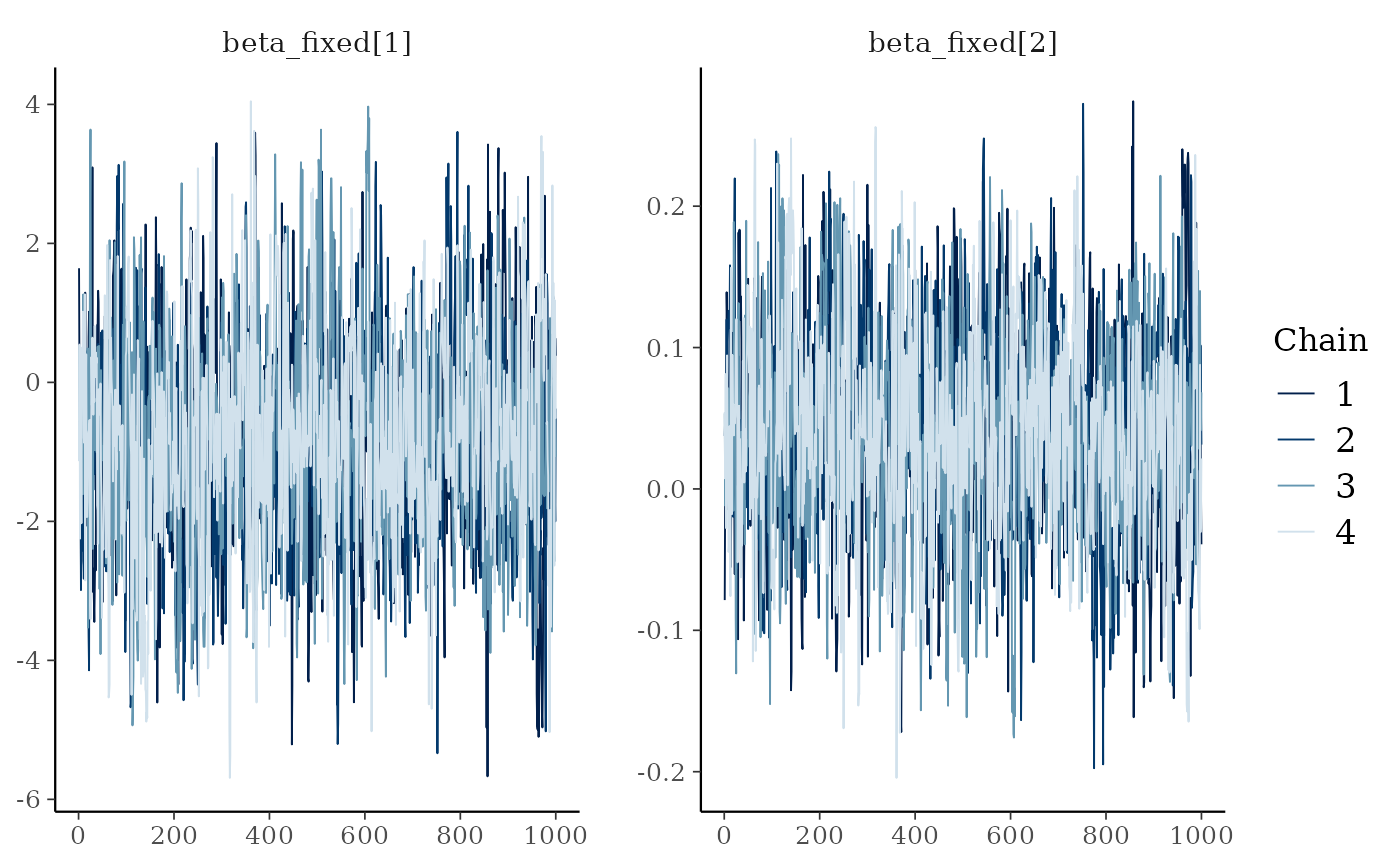
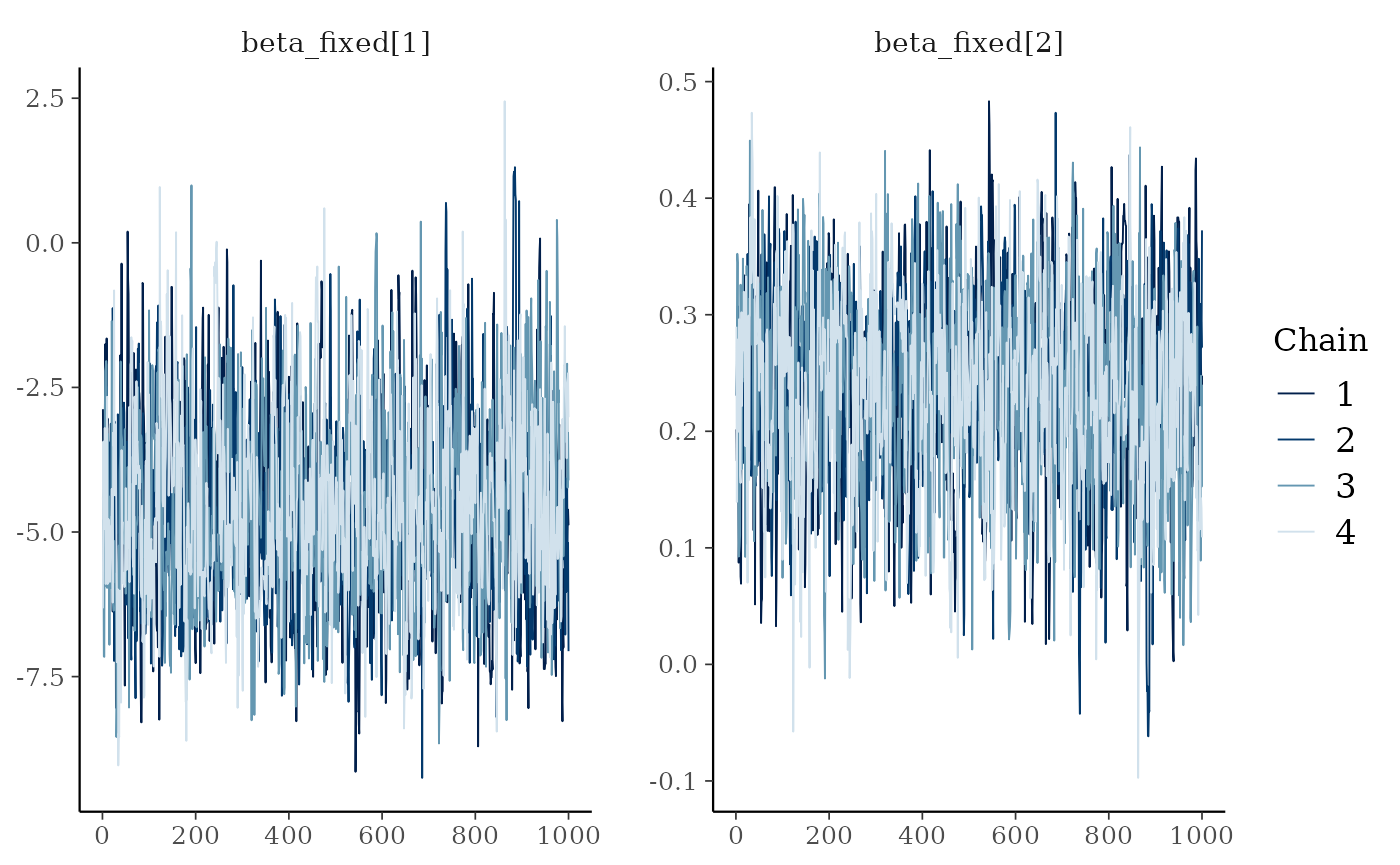
Built site for bisonR: 0.1.0@e6f2552

diff --git a/articles/getting_started.html b/articles/getting_started.html
@@ -113,13 +113,13 @@
 <code class="sourceCode R"><span class="va">sim_data</span> <span class="op">&lt;-</span> <span class="fu"><a href="../reference/simulate_edge_model.html">simulate_edge_model</a></span><span class="op">(</span><span class="st">"binary"</span>, aggregated <span class="op">=</span> <span class="cn">FALSE</span><span class="op">)</span>
 <span class="va">df</span> <span class="op">&lt;-</span> <span class="va">sim_data</span><span class="op">$</span><span class="va">df_sim</span>
 <span class="fu"><a href="https://rdrr.io/r/utils/head.html" class="external-link">head</a></span><span class="op">(</span><span class="va">df</span><span class="op">)</span>
-<span class="co">#&gt;   event node_1_id node_2_id  age_diff    age_1    age_2 location duration</span>
-<span class="co">#&gt; 1     0         1         2 -1.486868 15.53712 17.02398        5        1</span>
-<span class="co">#&gt; 2     0         1         2 -1.486868 15.53712 17.02398        5        1</span>
-<span class="co">#&gt; 3     0         1         2 -1.486868 15.53712 17.02398        2        1</span>
-<span class="co">#&gt; 4     0         1         2 -1.486868 15.53712 17.02398        2        1</span>
-<span class="co">#&gt; 5     1         1         2 -1.486868 15.53712 17.02398        3        1</span>
-<span class="co">#&gt; 6     0         1         2 -1.486868 15.53712 17.02398        1        1</span></code></pre></div>
+<span class="co">#&gt;   event node_1_id node_2_id age_diff    age_1    age_2 location duration</span>
+<span class="co">#&gt; 1     1         1         2 12.75199 25.92077 13.16878        5        1</span>
+<span class="co">#&gt; 2     1         1         2 12.75199 25.92077 13.16878        5        1</span>
+<span class="co">#&gt; 3     1         1         2 12.75199 25.92077 13.16878        3        1</span>
+<span class="co">#&gt; 4     1         1         2 12.75199 25.92077 13.16878        1        1</span>
+<span class="co">#&gt; 5     1         1         2 12.75199 25.92077 13.16878        4        1</span>
+<span class="co">#&gt; 6     1         1         2 12.75199 25.92077 13.16878        1        1</span></code></pre></div>
 </div>
 <div class="section level2">
 <h2 id="edge-models">Edge Models<a class="anchor" aria-label="anchor" href="#edge-models"></a>
@@ -188,14 +188,14 @@
 <span class="co">#&gt; </span>
 <span class="co">#&gt; Running MCMC with 4 parallel chains...</span>
 <span class="co">#&gt; </span>
-<span class="co">#&gt; Chain 2 finished in 3.1 seconds.</span>
-<span class="co">#&gt; Chain 1 finished in 3.2 seconds.</span>
-<span class="co">#&gt; Chain 3 finished in 3.2 seconds.</span>
-<span class="co">#&gt; Chain 4 finished in 3.2 seconds.</span>
+<span class="co">#&gt; Chain 1 finished in 3.5 seconds.</span>
+<span class="co">#&gt; Chain 2 finished in 3.6 seconds.</span>
+<span class="co">#&gt; Chain 4 finished in 3.5 seconds.</span>
+<span class="co">#&gt; Chain 3 finished in 3.6 seconds.</span>
 <span class="co">#&gt; </span>
 <span class="co">#&gt; All 4 chains finished successfully.</span>
-<span class="co">#&gt; Mean chain execution time: 3.2 seconds.</span>
-<span class="co">#&gt; Total execution time: 3.4 seconds.</span></code></pre></div>
+<span class="co">#&gt; Mean chain execution time: 3.6 seconds.</span>
+<span class="co">#&gt; Total execution time: 3.8 seconds.</span></code></pre></div>
 <p>Depending on your dataset this can take anywhere between a few tenths of a second and several hours. In particular if you have a large dataset and no observation-level predictors, it’s probably a good idea to use the aggregated version of the model where all observations per dyad are collapsed to a single row. This will speed up model fitting considerably.</p>
 <p>Once the model has fitted, we need to check that the MCMC algorithm has behaved correctly. Usually if there’s a major problem, the <code><a href="../reference/edge_model.html">edge_model()</a></code> function itself will have triggered warning messages above. But even if everything is silent, it’s still worth checking the traceplots to check the MCMC chains have converged. The chains should be well-mixed and look something like a fuzzy caterpillar. We can check for this using the <code><a href="../reference/plot_trace.html">plot_trace()</a></code> function:</p>
 <div class="sourceCode" id="cb7"><pre class="downlit sourceCode r">
@@ -216,51 +216,51 @@
 <span class="co">#&gt; Directed: FALSE</span>
 <span class="co">#&gt; === Edge list summary ===</span>
 <span class="co">#&gt;          median    5%   95%</span>
-<span class="co">#&gt; 1 &lt;-&gt; 2   0.348 0.195 0.528</span>
-<span class="co">#&gt; 1 &lt;-&gt; 3   0.044 0.003 0.253</span>
-<span class="co">#&gt; 2 &lt;-&gt; 3   0.180 0.031 0.481</span>
-<span class="co">#&gt; 1 &lt;-&gt; 4   0.031 0.002 0.159</span>
-<span class="co">#&gt; 2 &lt;-&gt; 4   0.082 0.005 0.469</span>
-<span class="co">#&gt; 3 &lt;-&gt; 4   0.022 0.002 0.107</span>
-<span class="co">#&gt; 1 &lt;-&gt; 5   0.027 0.002 0.138</span>
-<span class="co">#&gt; 2 &lt;-&gt; 5   0.110 0.004 0.596</span>
-<span class="co">#&gt; 3 &lt;-&gt; 5   0.255 0.072 0.548</span>
-<span class="co">#&gt; 4 &lt;-&gt; 5   0.978 0.890 0.998</span>
-<span class="co">#&gt; 1 &lt;-&gt; 6   0.465 0.254 0.683</span>
-<span class="co">#&gt; 2 &lt;-&gt; 6   0.334 0.147 0.568</span>
-<span class="co">#&gt; 3 &lt;-&gt; 6   0.917 0.542 0.996</span>
-<span class="co">#&gt; 4 &lt;-&gt; 6   0.970 0.845 0.998</span>
-<span class="co">#&gt; 5 &lt;-&gt; 6   0.922 0.774 0.986</span>
-<span class="co">#&gt; 1 &lt;-&gt; 7   0.021 0.002 0.105</span>
-<span class="co">#&gt; 2 &lt;-&gt; 7   0.022 0.002 0.108</span>
-<span class="co">#&gt; 3 &lt;-&gt; 7   0.185 0.007 0.778</span>
-<span class="co">#&gt; 4 &lt;-&gt; 7   0.972 0.866 0.998</span>
-<span class="co">#&gt; 5 &lt;-&gt; 7   0.045 0.003 0.243</span>
-<span class="co">#&gt; 6 &lt;-&gt; 7   0.020 0.002 0.100</span>
-<span class="co">#&gt; 1 &lt;-&gt; 8   0.060 0.011 0.183</span>
-<span class="co">#&gt; 2 &lt;-&gt; 8   0.885 0.680 0.979</span>
-<span class="co">#&gt; 3 &lt;-&gt; 8   0.979 0.901 0.998</span>
-<span class="co">#&gt; 4 &lt;-&gt; 8   0.942 0.679 0.997</span>
-<span class="co">#&gt; 5 &lt;-&gt; 8   0.697 0.452 0.884</span>
-<span class="co">#&gt; 6 &lt;-&gt; 8   0.647 0.445 0.817</span>
-<span class="co">#&gt; 7 &lt;-&gt; 8   0.978 0.895 0.998</span>
-<span class="co">#&gt; 1 &lt;-&gt; 9   0.497 0.098 0.909</span>
-<span class="co">#&gt; 2 &lt;-&gt; 9   0.924 0.778 0.985</span>
-<span class="co">#&gt; 3 &lt;-&gt; 9   0.961 0.786 0.997</span>
-<span class="co">#&gt; 4 &lt;-&gt; 9   0.973 0.868 0.998</span>
-<span class="co">#&gt; 5 &lt;-&gt; 9   0.956 0.753 0.997</span>
-<span class="co">#&gt; 6 &lt;-&gt; 9   0.223 0.093 0.410</span>
-<span class="co">#&gt; 7 &lt;-&gt; 9   0.976 0.883 0.998</span>
-<span class="co">#&gt; 8 &lt;-&gt; 9   0.976 0.876 0.998</span>
-<span class="co">#&gt; 1 &lt;-&gt; 10  0.052 0.003 0.279</span>
-<span class="co">#&gt; 2 &lt;-&gt; 10  0.083 0.004 0.438</span>
-<span class="co">#&gt; 3 &lt;-&gt; 10  0.507 0.155 0.844</span>
-<span class="co">#&gt; 4 &lt;-&gt; 10  0.976 0.867 0.998</span>
-<span class="co">#&gt; 5 &lt;-&gt; 10  0.250 0.096 0.475</span>
-<span class="co">#&gt; 6 &lt;-&gt; 10  0.020 0.002 0.106</span>
-<span class="co">#&gt; 7 &lt;-&gt; 10  0.934 0.633 0.996</span>
-<span class="co">#&gt; 8 &lt;-&gt; 10  0.020 0.002 0.102</span>
-<span class="co">#&gt; 9 &lt;-&gt; 10  0.025 0.002 0.137</span></code></pre></div>
+<span class="co">#&gt; 1 &lt;-&gt; 2   0.978 0.890 0.998</span>
+<span class="co">#&gt; 1 &lt;-&gt; 3   0.955 0.758 0.997</span>
+<span class="co">#&gt; 2 &lt;-&gt; 3   0.592 0.268 0.869</span>
+<span class="co">#&gt; 1 &lt;-&gt; 4   0.792 0.550 0.940</span>
+<span class="co">#&gt; 2 &lt;-&gt; 4   0.026 0.002 0.141</span>
+<span class="co">#&gt; 3 &lt;-&gt; 4   0.033 0.003 0.179</span>
+<span class="co">#&gt; 1 &lt;-&gt; 5   0.980 0.899 0.998</span>
+<span class="co">#&gt; 2 &lt;-&gt; 5   0.024 0.002 0.128</span>
+<span class="co">#&gt; 3 &lt;-&gt; 5   0.347 0.071 0.772</span>
+<span class="co">#&gt; 4 &lt;-&gt; 5   0.976 0.868 0.998</span>
+<span class="co">#&gt; 1 &lt;-&gt; 6   0.788 0.431 0.962</span>
+<span class="co">#&gt; 2 &lt;-&gt; 6   0.025 0.002 0.117</span>
+<span class="co">#&gt; 3 &lt;-&gt; 6   0.021 0.002 0.101</span>
+<span class="co">#&gt; 4 &lt;-&gt; 6   0.887 0.426 0.994</span>
+<span class="co">#&gt; 5 &lt;-&gt; 6   0.171 0.007 0.774</span>
+<span class="co">#&gt; 1 &lt;-&gt; 7   0.920 0.755 0.985</span>
+<span class="co">#&gt; 2 &lt;-&gt; 7   0.031 0.002 0.171</span>
+<span class="co">#&gt; 3 &lt;-&gt; 7   0.027 0.002 0.138</span>
+<span class="co">#&gt; 4 &lt;-&gt; 7   0.813 0.211 0.992</span>
+<span class="co">#&gt; 5 &lt;-&gt; 7   0.173 0.007 0.795</span>
+<span class="co">#&gt; 6 &lt;-&gt; 7   0.906 0.722 0.984</span>
+<span class="co">#&gt; 1 &lt;-&gt; 8   0.878 0.716 0.965</span>
+<span class="co">#&gt; 2 &lt;-&gt; 8   0.024 0.002 0.131</span>
+<span class="co">#&gt; 3 &lt;-&gt; 8   0.057 0.003 0.317</span>
+<span class="co">#&gt; 4 &lt;-&gt; 8   0.851 0.660 0.958</span>
+<span class="co">#&gt; 5 &lt;-&gt; 8   0.035 0.002 0.177</span>
+<span class="co">#&gt; 6 &lt;-&gt; 8   0.283 0.126 0.492</span>
+<span class="co">#&gt; 7 &lt;-&gt; 8   0.066 0.003 0.380</span>
+<span class="co">#&gt; 1 &lt;-&gt; 9   0.940 0.820 0.989</span>
+<span class="co">#&gt; 2 &lt;-&gt; 9   0.180 0.008 0.766</span>
+<span class="co">#&gt; 3 &lt;-&gt; 9   0.023 0.002 0.118</span>
+<span class="co">#&gt; 4 &lt;-&gt; 9   0.941 0.685 0.996</span>
+<span class="co">#&gt; 5 &lt;-&gt; 9   0.428 0.168 0.721</span>
+<span class="co">#&gt; 6 &lt;-&gt; 9   0.951 0.732 0.997</span>
+<span class="co">#&gt; 7 &lt;-&gt; 9   0.498 0.228 0.778</span>
+<span class="co">#&gt; 8 &lt;-&gt; 9   0.491 0.095 0.911</span>
+<span class="co">#&gt; 1 &lt;-&gt; 10  0.977 0.888 0.998</span>
+<span class="co">#&gt; 2 &lt;-&gt; 10  0.029 0.002 0.141</span>
+<span class="co">#&gt; 3 &lt;-&gt; 10  0.020 0.002 0.102</span>
+<span class="co">#&gt; 4 &lt;-&gt; 10  0.956 0.761 0.997</span>
+<span class="co">#&gt; 5 &lt;-&gt; 10  0.115 0.033 0.273</span>
+<span class="co">#&gt; 6 &lt;-&gt; 10  0.915 0.549 0.995</span>
+<span class="co">#&gt; 7 &lt;-&gt; 10  0.455 0.227 0.689</span>
+<span class="co">#&gt; 8 &lt;-&gt; 10  0.736 0.359 0.952</span>
+<span class="co">#&gt; 9 &lt;-&gt; 10  0.250 0.091 0.477</span></code></pre></div>
 <p>It can be hard to get an intuitive idea for what’s going on looking only at a summary table, so this is where it can be useful to visualise the network too. The <code><a href="../reference/plot_network.html">plot_network()</a></code> function does this for BISoN edge weight models, where uncertainty is shown on edge weights. Uncertainty is visualised by showing the lower and upper bounds as overlapping edges in the network.</p>
 <div class="sourceCode" id="cb10"><pre class="downlit sourceCode r">
 <code class="sourceCode R"><span class="fu"><a href="../reference/plot_network.html">plot_network</a></span><span class="op">(</span><span class="va">fit_edge</span>, lwd<span class="op">=</span><span class="fl">5</span><span class="op">)</span></code></pre></div>
@@ -302,33 +302,33 @@
 <span class="co">#&gt; Chain 3 Iteration:    1 / 2000 [  0%]  (Warmup) </span>
 <span class="co">#&gt; Chain 4 Iteration:    1 / 2000 [  0%]  (Warmup) </span>
 <span class="co">#&gt; Chain 1 Iteration:  500 / 2000 [ 25%]  (Warmup) </span>
-<span class="co">#&gt; Chain 2 Iteration:  500 / 2000 [ 25%]  (Warmup) </span>
 <span class="co">#&gt; Chain 3 Iteration:  500 / 2000 [ 25%]  (Warmup) </span>
 <span class="co">#&gt; Chain 4 Iteration:  500 / 2000 [ 25%]  (Warmup) </span>
-<span class="co">#&gt; Chain 4 Iteration: 1000 / 2000 [ 50%]  (Warmup) </span>
+<span class="co">#&gt; Chain 2 Iteration:  500 / 2000 [ 25%]  (Warmup) </span>
 <span class="co">#&gt; Chain 1 Iteration: 1000 / 2000 [ 50%]  (Warmup) </span>
 <span class="co">#&gt; Chain 1 Iteration: 1001 / 2000 [ 50%]  (Sampling) </span>
-<span class="co">#&gt; Chain 2 Iteration: 1000 / 2000 [ 50%]  (Warmup) </span>
-<span class="co">#&gt; Chain 2 Iteration: 1001 / 2000 [ 50%]  (Sampling) </span>
 <span class="co">#&gt; Chain 3 Iteration: 1000 / 2000 [ 50%]  (Warmup) </span>
 <span class="co">#&gt; Chain 3 Iteration: 1001 / 2000 [ 50%]  (Sampling) </span>
+<span class="co">#&gt; Chain 4 Iteration: 1000 / 2000 [ 50%]  (Warmup) </span>
 <span class="co">#&gt; Chain 4 Iteration: 1001 / 2000 [ 50%]  (Sampling) </span>
-<span class="co">#&gt; Chain 2 Iteration: 1500 / 2000 [ 75%]  (Sampling) </span>
-<span class="co">#&gt; Chain 4 Iteration: 1500 / 2000 [ 75%]  (Sampling) </span>
+<span class="co">#&gt; Chain 2 Iteration: 1000 / 2000 [ 50%]  (Warmup) </span>
+<span class="co">#&gt; Chain 2 Iteration: 1001 / 2000 [ 50%]  (Sampling) </span>
 <span class="co">#&gt; Chain 1 Iteration: 1500 / 2000 [ 75%]  (Sampling) </span>
 <span class="co">#&gt; Chain 3 Iteration: 1500 / 2000 [ 75%]  (Sampling) </span>
-<span class="co">#&gt; Chain 2 Iteration: 2000 / 2000 [100%]  (Sampling) </span>
-<span class="co">#&gt; Chain 2 finished in 3.3 seconds.</span>
+<span class="co">#&gt; Chain 4 Iteration: 1500 / 2000 [ 75%]  (Sampling) </span>
+<span class="co">#&gt; Chain 2 Iteration: 1500 / 2000 [ 75%]  (Sampling) </span>
 <span class="co">#&gt; Chain 1 Iteration: 2000 / 2000 [100%]  (Sampling) </span>
+<span class="co">#&gt; Chain 1 finished in 5.6 seconds.</span>
 <span class="co">#&gt; Chain 3 Iteration: 2000 / 2000 [100%]  (Sampling) </span>
 <span class="co">#&gt; Chain 4 Iteration: 2000 / 2000 [100%]  (Sampling) </span>
-<span class="co">#&gt; Chain 1 finished in 3.5 seconds.</span>
-<span class="co">#&gt; Chain 3 finished in 3.4 seconds.</span>
-<span class="co">#&gt; Chain 4 finished in 3.4 seconds.</span>
+<span class="co">#&gt; Chain 3 finished in 5.6 seconds.</span>
+<span class="co">#&gt; Chain 4 finished in 5.6 seconds.</span>
+<span class="co">#&gt; Chain 2 Iteration: 2000 / 2000 [100%]  (Sampling) </span>
+<span class="co">#&gt; Chain 2 finished in 5.8 seconds.</span>
 <span class="co">#&gt; </span>
 <span class="co">#&gt; All 4 chains finished successfully.</span>
-<span class="co">#&gt; Mean chain execution time: 3.4 seconds.</span>
-<span class="co">#&gt; Total execution time: 3.5 seconds.</span></code></pre></div>
+<span class="co">#&gt; Mean chain execution time: 5.6 seconds.</span>
+<span class="co">#&gt; Total execution time: 5.9 seconds.</span></code></pre></div>
 <p>Like last time we want to check that our model has fit properly and makes good predictions. This can be done in exactly the same way as last time:</p>
 <div class="sourceCode" id="cb13"><pre class="downlit sourceCode r">
 <code class="sourceCode R"><span class="fu"><a href="../reference/plot_trace.html">plot_trace</a></span><span class="op">(</span><span class="va">fit_dyadic</span><span class="op">)</span></code></pre></div>
@@ -344,8 +344,8 @@
 <span class="co">#&gt; Number of dyads: 45</span>
 <span class="co">#&gt; === Coefficient summary ===                </span>
 <span class="co">#&gt; variable            50%     5%   95%</span>
-<span class="co">#&gt;   intercept      -0.089 -0.488 0.290</span>
-<span class="co">#&gt;   fixed_age_diff  0.309  0.258 0.362</span></code></pre></div>
+<span class="co">#&gt;   intercept      -0.164 -0.455 0.114</span>
+<span class="co">#&gt;   fixed_age_diff  0.431  0.381 0.484</span></code></pre></div>
 <p>Now we’ve seen how to fit a dyadic regression, the next common type of analysis is nodal regression.</p>
 </div>
 <div class="section level2">
@@ -361,16 +361,16 @@
   <span class="fu"><a href="https://dplyr.tidyverse.org/reference/distinct.html" class="external-link">distinct</a></span><span class="op">(</span><span class="va">node_id</span>, <span class="va">age</span><span class="op">)</span>
 <span class="va">df_nodal</span>
 <span class="co">#&gt;    node_id      age</span>
-<span class="co">#&gt; 1        1 15.53712</span>
-<span class="co">#&gt; 2        2 17.02398</span>
-<span class="co">#&gt; 3        3 20.38407</span>
-<span class="co">#&gt; 4        4 33.53709</span>
-<span class="co">#&gt; 5        5 20.05762</span>
-<span class="co">#&gt; 6        6 17.23418</span>
-<span class="co">#&gt; 7        7 27.43934</span>
-<span class="co">#&gt; 8        8 18.03375</span>
-<span class="co">#&gt; 9        9 15.12338</span>
-<span class="co">#&gt; 10      10 21.13687</span></code></pre></div>
+<span class="co">#&gt; 1        1 25.92077</span>
+<span class="co">#&gt; 2        2 13.16878</span>
+<span class="co">#&gt; 3        3 13.20513</span>
+<span class="co">#&gt; 4        4 24.83481</span>
+<span class="co">#&gt; 5        5 16.75855</span>
+<span class="co">#&gt; 6        6 22.25268</span>
+<span class="co">#&gt; 7        7 19.38261</span>
+<span class="co">#&gt; 8        8 22.42105</span>
+<span class="co">#&gt; 9        9 18.47393</span>
+<span class="co">#&gt; 10      10 18.91661</span></code></pre></div>
 <p>Priors can be set in the exact same way as for the <code><a href="../reference/dyadic_regression.html">dyadic_regression()</a></code> function:</p>
 <div class="sourceCode" id="cb17"><pre class="downlit sourceCode r">
 <code class="sourceCode R"><span class="va">priors</span> <span class="op">&lt;-</span> <span class="fu"><a href="../reference/get_default_priors.html">get_default_priors</a></span><span class="op">(</span><span class="st">"nodal_regression"</span><span class="op">)</span>
@@ -397,33 +397,35 @@
 <span class="co">#&gt; Chain 3 Iteration:    1 / 2000 [  0%]  (Warmup) </span>
 <span class="co">#&gt; Chain 4 Iteration:    1 / 2000 [  0%]  (Warmup) </span>
 <span class="co">#&gt; Chain 1 Iteration:  500 / 2000 [ 25%]  (Warmup) </span>
+<span class="co">#&gt; Chain 3 Iteration:  500 / 2000 [ 25%]  (Warmup) </span>
+<span class="co">#&gt; Chain 2 Iteration:  500 / 2000 [ 25%]  (Warmup) </span>
 <span class="co">#&gt; Chain 1 Iteration: 1000 / 2000 [ 50%]  (Warmup) </span>
 <span class="co">#&gt; Chain 1 Iteration: 1001 / 2000 [ 50%]  (Sampling) </span>
-<span class="co">#&gt; Chain 2 Iteration:  500 / 2000 [ 25%]  (Warmup) </span>
-<span class="co">#&gt; Chain 3 Iteration:  500 / 2000 [ 25%]  (Warmup) </span>
+<span class="co">#&gt; Chain 3 Iteration: 1000 / 2000 [ 50%]  (Warmup) </span>
+<span class="co">#&gt; Chain 3 Iteration: 1001 / 2000 [ 50%]  (Sampling) </span>
 <span class="co">#&gt; Chain 4 Iteration:  500 / 2000 [ 25%]  (Warmup) </span>
 <span class="co">#&gt; Chain 2 Iteration: 1000 / 2000 [ 50%]  (Warmup) </span>
 <span class="co">#&gt; Chain 2 Iteration: 1001 / 2000 [ 50%]  (Sampling) </span>
-<span class="co">#&gt; Chain 3 Iteration: 1000 / 2000 [ 50%]  (Warmup) </span>
-<span class="co">#&gt; Chain 3 Iteration: 1001 / 2000 [ 50%]  (Sampling) </span>
 <span class="co">#&gt; Chain 4 Iteration: 1000 / 2000 [ 50%]  (Warmup) </span>
 <span class="co">#&gt; Chain 4 Iteration: 1001 / 2000 [ 50%]  (Sampling) </span>
 <span class="co">#&gt; Chain 1 Iteration: 1500 / 2000 [ 75%]  (Sampling) </span>
-<span class="co">#&gt; Chain 4 Iteration: 1500 / 2000 [ 75%]  (Sampling) </span>
-<span class="co">#&gt; Chain 1 Iteration: 2000 / 2000 [100%]  (Sampling) </span>
 <span class="co">#&gt; Chain 2 Iteration: 1500 / 2000 [ 75%]  (Sampling) </span>
 <span class="co">#&gt; Chain 3 Iteration: 1500 / 2000 [ 75%]  (Sampling) </span>
+<span class="co">#&gt; Chain 1 Iteration: 2000 / 2000 [100%]  (Sampling) </span>
+<span class="co">#&gt; Chain 4 Iteration: 1500 / 2000 [ 75%]  (Sampling) </span>
+<span class="co">#&gt; Chain 1 finished in 1.2 seconds.</span>
 <span class="co">#&gt; Chain 4 Iteration: 2000 / 2000 [100%]  (Sampling) </span>
-<span class="co">#&gt; Chain 1 finished in 0.6 seconds.</span>
-<span class="co">#&gt; Chain 4 finished in 0.6 seconds.</span>
+<span class="co">#&gt; Chain 4 finished in 1.3 seconds.</span>
 <span class="co">#&gt; Chain 2 Iteration: 2000 / 2000 [100%]  (Sampling) </span>
 <span class="co">#&gt; Chain 3 Iteration: 2000 / 2000 [100%]  (Sampling) </span>
-<span class="co">#&gt; Chain 2 finished in 0.7 seconds.</span>
-<span class="co">#&gt; Chain 3 finished in 0.6 seconds.</span>
+<span class="co">#&gt; Chain 2 finished in 1.3 seconds.</span>
+<span class="co">#&gt; Chain 3 finished in 1.3 seconds.</span>
 <span class="co">#&gt; </span>
 <span class="co">#&gt; All 4 chains finished successfully.</span>
-<span class="co">#&gt; Mean chain execution time: 0.6 seconds.</span>
-<span class="co">#&gt; Total execution time: 0.8 seconds.</span></code></pre></div>
+<span class="co">#&gt; Mean chain execution time: 1.3 seconds.</span>
+<span class="co">#&gt; Total execution time: 1.4 seconds.</span>
+<span class="co">#&gt; Warning: 2 of 4000 (0.0%) transitions ended with a divergence.</span>
+<span class="co">#&gt; See https://mc-stan.org/misc/warnings for details.</span></code></pre></div>
 <p>Once the model has been fitted, we need to employ the same diagnostic checks as last time to ensure the model is reliable. This may seem a little tedious, and it won’t always go smoothly, but it’s a vital part of model fitting that is essential for reliable inferences, even in frequentist statistics.</p>
 <div class="sourceCode" id="cb19"><pre class="downlit sourceCode r">
 <code class="sourceCode R"><span class="fu"><a href="../reference/plot_trace.html">plot_trace</a></span><span class="op">(</span><span class="va">fit_nodal</span><span class="op">)</span></code></pre></div>
@@ -438,9 +440,9 @@
 <span class="co">#&gt; Formula: strength(node_id) ~ age</span>
 <span class="co">#&gt; Number of nodes: 10</span>
 <span class="co">#&gt; === Coefficient summary ===           </span>
-<span class="co">#&gt; variable       50%     5%   95%</span>
-<span class="co">#&gt;   intercept -0.831 -3.252 1.722</span>
-<span class="co">#&gt;   fixed_age  0.041 -0.079 0.159</span></code></pre></div>
+<span class="co">#&gt; variable       50%     5%    95%</span>
+<span class="co">#&gt;   intercept -4.689 -7.028 -1.731</span>
+<span class="co">#&gt;   fixed_age  0.244  0.094  0.362</span></code></pre></div>
 </div>
 <div class="section level2">
 <h2 id="conclusion">Conclusion<a class="anchor" aria-label="anchor" href="#conclusion"></a>
